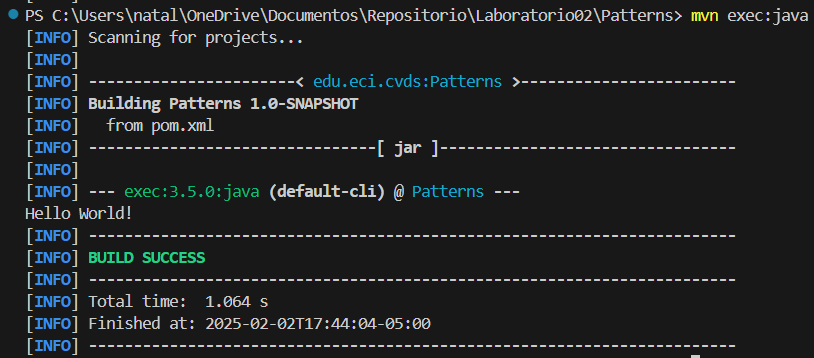
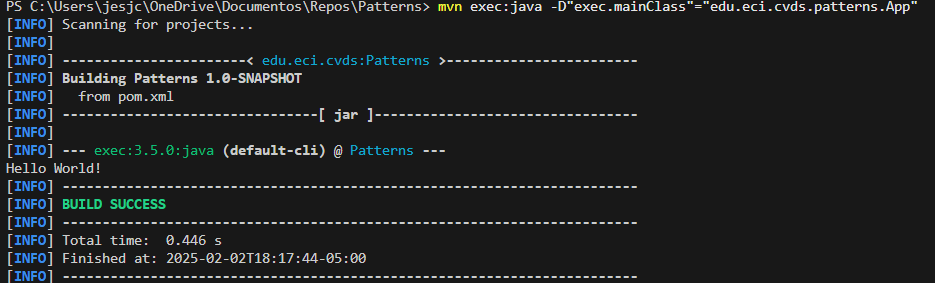
Modificaciones en el README y clase App, se añadieron imagenes correspondientes

Changed region(s): [[0.0, 0.0, 1.0, 1.0]]

diff --git a/src/main/java/edu/eci/cvds/patterns/App.java b/src/main/java/edu/eci/cvds/patterns/App.java
@@ -5,6 +5,10 @@ package edu.eci.cvds.patterns;
  */
 public class App {
     public static void main(String[] args) {
-        System.out.println("Hello World!");
+        if (args.length > 1) {
+            System.out.println("Hello " + args[0] + " " + args[1] + "!");
+        } else {
+            System.out.println("Hello World!");
+        }
     }
 }

diff --git a/README.md b/README.md
@@ -72,3 +72,27 @@ Ingresar a la página de la herramienta y entender:
 
 ![](/assets/images/5.1.png)
 ![](/assets/images/5.2.png)
+
+- Realice el cambio en la clase App.java para crear un saludo personalizado, basado en los parámetros de entrada a la aplicación.
+- Utilizar la primera posición del parámetro que llega al método "main" para realizar elsaludo personalizado, en caso que no sea posible, se debe mantener el saludo como se encuentra actualmente:
+![](/assets/images/6.1.png)
+
+- Buscar cómo enviar parámetros al plugin "exec".
+Con el comando: mvn exec:java -D"exec.mainClass"="Ruta a la clase main" -D"exec.args"="Parametro a pasar"
+
+- Ejecutar nuevamente la clase desde línea de comandos y verificar la salida: Hello World!
+![](/assets/images/6.2.png)
+
+- Ejecutar la clase desde línea de comandos enviando su nombre como parámetro y verificar la salida. Ej: Hello Pepito!
+![](/assets/images/6.3.png)
+
+- Ejecutar la clase con su nombre y apellido como parámetro. ¿Qué sucedió?
+Solo tomo el nombre y no el apellido.
+![](/assets/images/6.4.png)
+
+- Verifique cómo enviar los parámetros de forma "compuesta" para que el saludo se realice con nombre y apellido.
+Se modifico el codigo de la clase App.java
+![](/assets/images/6.5.png)
+
+- Ejecutar nuevamente y verificar la salida en consola. Ej: Hello Pepito Perez!
+![](/assets/images/6.6.png)
